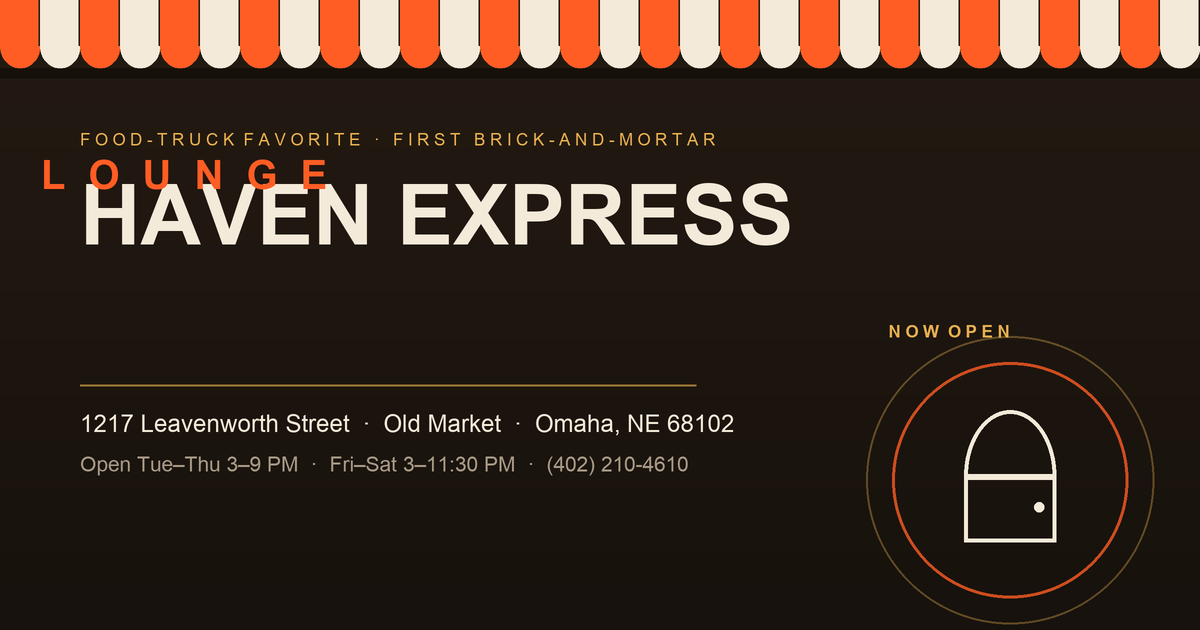
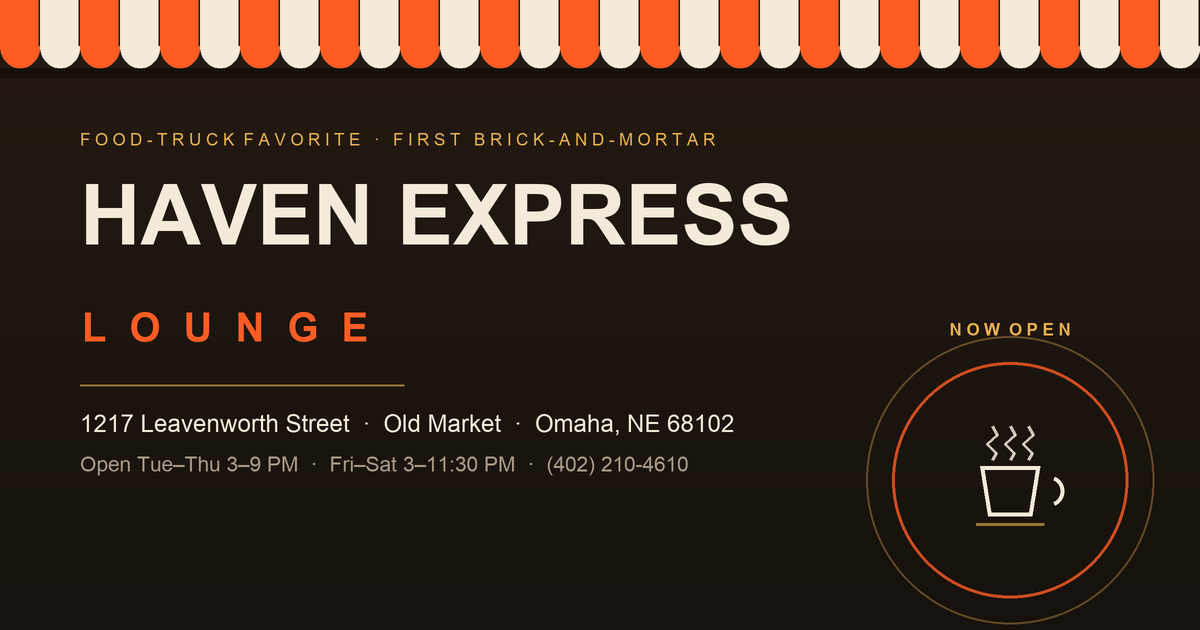
OG art fixes: LOUNGE row scale bug off wordmark, door->steaming-cup glyph, centered NOW OPEN stamp

diff --git a/make_og.py b/make_og.py
@@ -57,15 +57,16 @@ L = 80
 d.text(P(L, 130), "F O O D - T R U C K  F A V O R I T E   ·   F I R S T   B R I C K - A N D - M O R T A R", font=sansm(17), fill=GOLD)
 # wordmark
 d.text(P(L, 168), "HAVEN EXPRESS", font=sans(84), fill=CREAM)
-# "LOUNGE" ember, tracked
-def tracked(text, x, y, fnt, fill, sp):
+# "LOUNGE" ember, tracked (device-space accumulation, logical input)
+def tracked(text, x_logical, y_logical, fnt, fill, sp_logical):
+    x, y = x_logical*S, y_logical*S
     for ch in text:
         d.text((x, y), ch, font=fnt, fill=fill)
-        x += d.textlength(ch, font=fnt) + sp*S
+        x += d.textlength(ch, font=fnt) + sp_logical*S
     return x
 xend = tracked("L O U N G E", L+2, 305, sans(40), EMBER, 6)
 # thin rule under wordmark
-d.line([P(L, 385), P(xend+30, 385)], fill=(231, 176, 79, 160), width=int(2*S))
+d.line([P(L, 385), (xend+30*S, 385*S)], fill=(231, 176, 79, 160), width=int(2*S))
 # address + hours lines
 d.text(P(L, 410), "1217 Leavenworth Street  ·  Old Market  ·  Omaha, NE 68102", font=sansm(24), fill=CREAM)
 d.text(P(L, 452), "Open Tue–Thu 3–9 PM  ·  Fri–Sat 3–11:30 PM  ·  (402) 210-4610", font=sansm(21), fill=MUTE)
@@ -74,12 +75,17 @@ d.text(P(L, 452), "Open Tue–Thu 3–9 PM  ·  Fri–Sat 3–11:30 PM  ·  (402
 cx, cy, rr = 1010, 480, 118
 d.ellipse([P(cx-rr, cy-rr), P(cx+rr, cy+rr)], outline=(255, 93, 36, 200), width=int(3*S))
 d.ellipse([P(cx-rr-26, cy-rr-26), P(cx+rr+26, cy+rr+26)], outline=(231, 176, 79, 90), width=int(2*S))
-# door glyph inside ring
-d.pieslice([P(cx-46, cy-70), P(cx+46, cy+62)], 180, 360, fill=None, outline=CREAM, width=int(4*S))
-d.rectangle([P(cx-46, cy-4), P(cx+46, cy+62)], fill=None, outline=CREAM, width=int(4*S))
-d.ellipse([P(cx+24, cy+22), P(cx+34, cy+32)], fill=CREAM)
-# "NOW OPEN" stamp inside ring top
-d.text(P(cx - d.textlength("N O W  O P E N", font=sans(17))/2, cy-rr-40), "N O W  O P E N", font=sans(17), fill=GOLD)
+# steaming-cup glyph inside ring (unambiguous: cup body + handle + steam)
+cup = [P(cx-30, cy-14), P(cx+30, cy-14), P(cx+22, cy+36), P(cx-22, cy+36)]
+d.polygon(cup, fill=None, outline=CREAM, width=int(4*S))
+d.arc([P(cx+26, cy-4), P(cx+54, cy+26)], start=-70, end=70, fill=CREAM, width=int(4*S))
+for i, sx in enumerate((cx-18, cx, cx+18)):
+    d.line([P(sx, cy-54), P(sx+5, cy-45), P(sx-5, cy-36), P(sx+4, cy-27), P(sx, cy-20)],
+           fill=(244, 234, 217, 210), width=int(3*S), joint="curve")
+d.line([P(cx-34, cy+44), P(cx+34, cy+44)], fill=(231, 176, 79, 160), width=int(3*S))
+# "NOW OPEN" stamp above ring, centered (textlength is device-px)
+_tl = d.textlength("N O W  O P E N", font=sans(17))
+d.text(P(cx - _tl/(2*S), cy-rr-42), "N O W  O P E N", font=sans(17), fill=GOLD)
 
 img = img.resize((W, H), Image.LANCZOS)
 img.save(OUT, "PNG", optimize=True)
